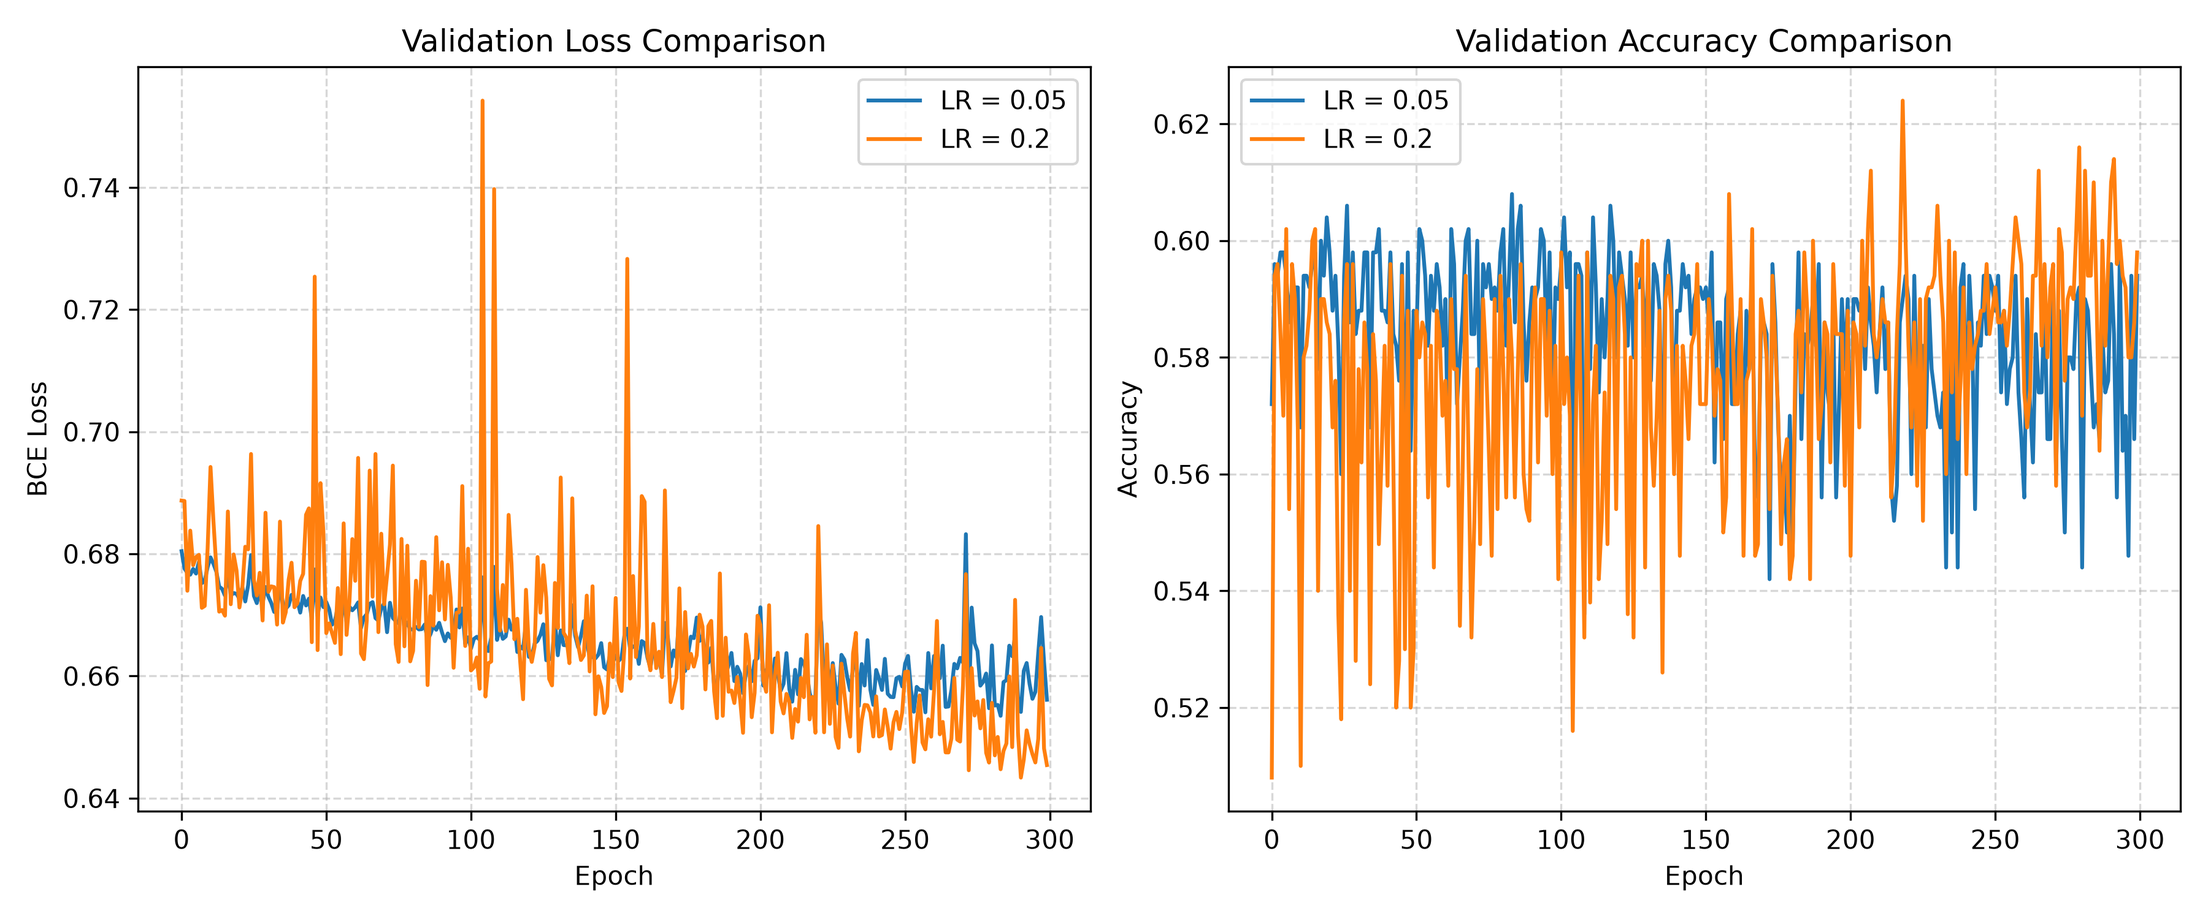
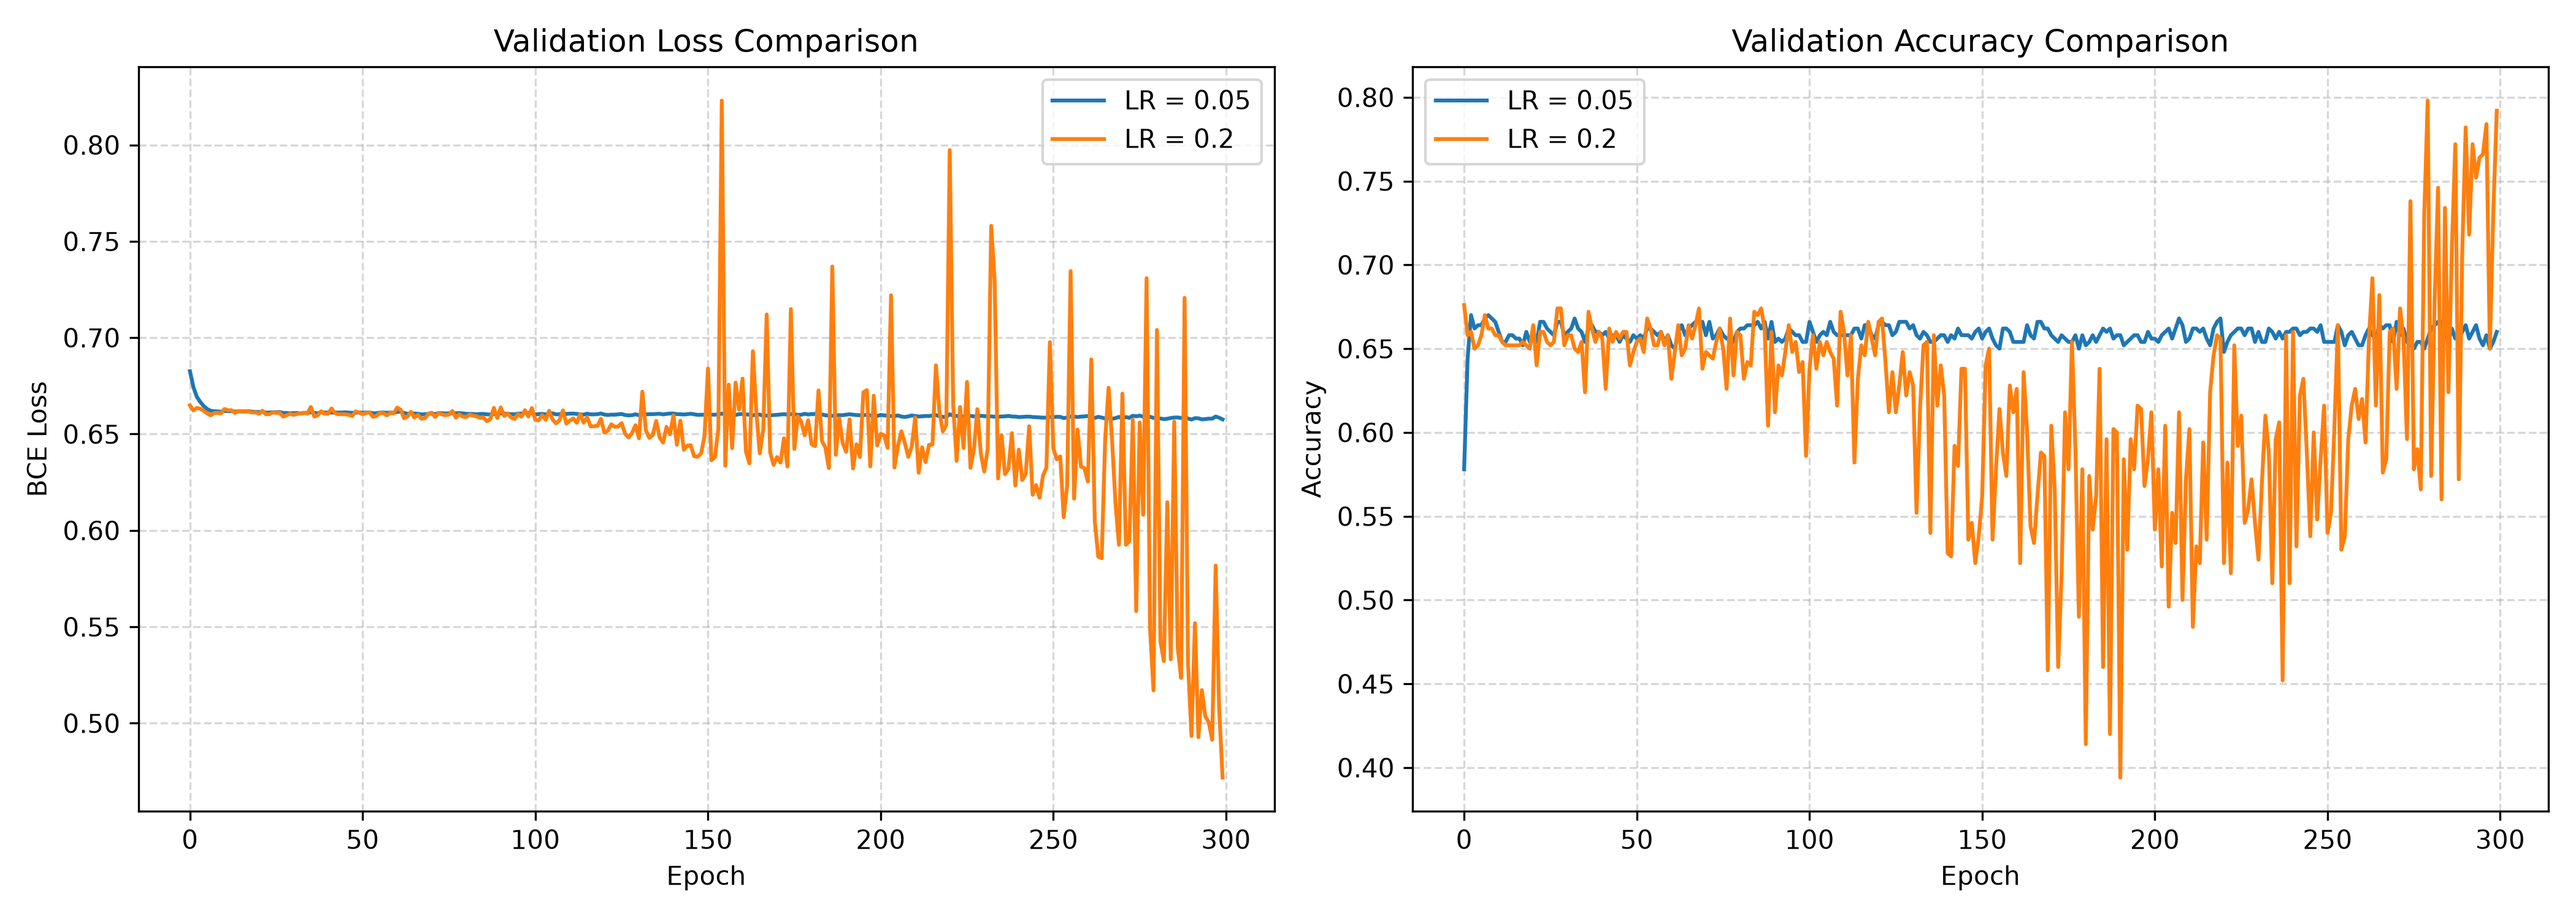
fix(hyperparam): restore compute_accuracy in compare_hyperparam.py and regenerate hyperparam_comparison.png
Human-Judgment: Verified that compare_hyperparam.py runs successfully without import errors, and the generated hyperparam_comparison.png correctly displays validation loss and accuracy curves for LR 0.05 and 0.2.

diff --git a/hw01/code/compare_hyperparam.py b/hw01/code/compare_hyperparam.py
@@ -3,51 +3,54 @@ import numpy as np
 import os
 import matplotlib.pyplot as plt
 from mlp import MLP
-from train_spiral import prepare_spiral_datasets, compute_bce_loss, compute_accuracy
+from generate_data import generate_spiral_data
 
-def run_hyperparam_experiment():
-    train_data, val_data, _ = prepare_spiral_datasets()
-    X_train, y_train = train_data
-    X_val, y_val = val_data
+def compute_accuracy(y_pred, y_true):
+    preds = (y_pred >= 0.5).astype(int)
+    return np.mean(preds == y_true.astype(int))
+
+def run_hyperparameter_experiment():
+    # 產生嚴格 noise=0.035 的雙螺旋資料
+    X_tr, y_tr = generate_spiral_data(1000, 0.035, 42)
+    X_va, y_va = generate_spiral_data(250, 0.035, 100)
     
-    # 測試兩種不同的學習率設定
-    learning_rates = [0.05, 0.2]
-    history = {}
+    epochs = 300
+    lrs = [0.05, 0.2]
     
-    for lr in learning_rates:
-        print(f"正在訓練三層 MLP (LR = {lr})...")
+    results = {}
+    eps = 1e-15
+    
+    for lr in lrs:
+        np.random.seed(42)
         model = MLP(input_dim=2, hidden_sizes=[32, 32], output_dim=1, task='classification', seed=42)
-        
-        val_accs = []
         val_losses = []
-        epochs = 300
-        batch_size = 64
-        num_samples = X_train.shape[0]
+        val_accs = []
         
         for epoch in range(epochs):
-            indices = np.arange(num_samples)
+            indices = np.arange(X_tr.shape[0])
             np.random.shuffle(indices)
-            X_shuffled = X_train[indices]
-            y_shuffled = y_train[indices]
-            
-            for start in range(0, num_samples, batch_size):
-                end = min(start + batch_size, num_samples)
-                grads = model.backward(X_shuffled[start:end], y_shuffled[start:end])
+            for start in range(0, X_tr.shape[0], 64):
+                end = min(start + 64, X_tr.shape[0])
+                grads = model.backward(X_tr[indices[start:end]], y_tr[indices[start:end]])
                 model.update(grads, lr)
                 
-            val_pred = model.forward(X_val)
-            val_losses.append(compute_bce_loss(val_pred, y_val))
-            val_accs.append(compute_accuracy(val_pred, y_val))
+            p_va = np.clip(model.forward(X_va), eps, 1-eps)
+            loss_va = -np.mean(y_va * np.log(p_va) + (1 - y_va) * np.log(1 - p_va))
+            acc_va = compute_accuracy(p_va, y_va)
             
-        history[lr] = {'loss': val_losses, 'acc': val_accs}
-
-    # 繪製對比圖
+            val_losses.append(loss_va)
+            val_accs.append(acc_va)
+            
+        results[lr] = (val_losses, val_accs)
+        
+    # 繪製 hyperparam_comparison.png
     os.makedirs('../figures', exist_ok=True)
-    fig, axes = plt.subplots(1, 2, figsize=(12, 5))
+    fig, axes = plt.subplots(1, 2, figsize=(14, 5))
     
-    for lr in learning_rates:
-        axes[0].plot(history[lr]['loss'], label=f'LR = {lr}')
-        axes[1].plot(history[lr]['acc'], label=f'LR = {lr}')
+    for lr in lrs:
+        losses, accs = results[lr]
+        axes[0].plot(losses, label=f'LR = {lr}')
+        axes[1].plot(accs, label=f'LR = {lr}')
         
     axes[0].set_title('Validation Loss Comparison')
     axes[0].set_xlabel('Epoch')
@@ -64,7 +67,7 @@ def run_hyperparam_experiment():
     plt.tight_layout()
     plt.savefig('../figures/hyperparam_comparison.png', dpi=300)
     plt.close()
-    print("✅ 超參數對比圖已成功儲存至 hw01/figures/hyperparam_comparison.png")
+    print("✅ hyperparam_comparison.png 已成功重新產出！")
 
 if __name__ == "__main__":
-    run_hyperparam_experiment()
+    run_hyperparameter_experiment()
